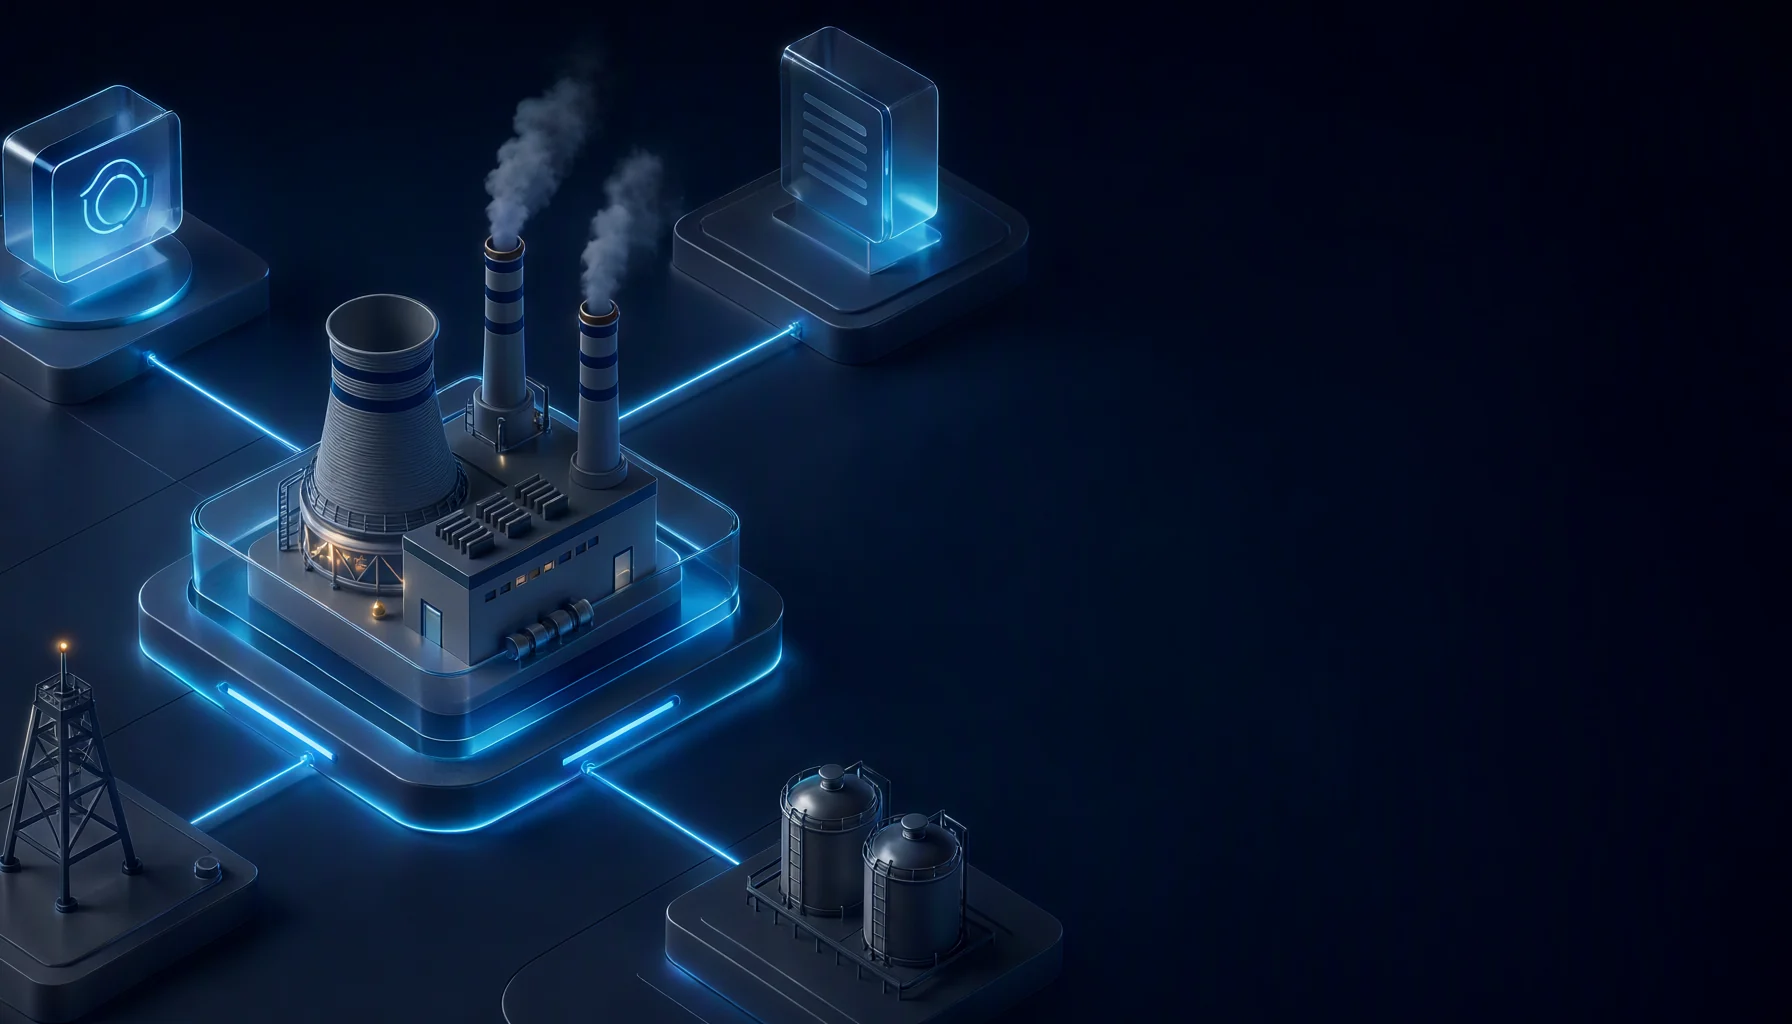
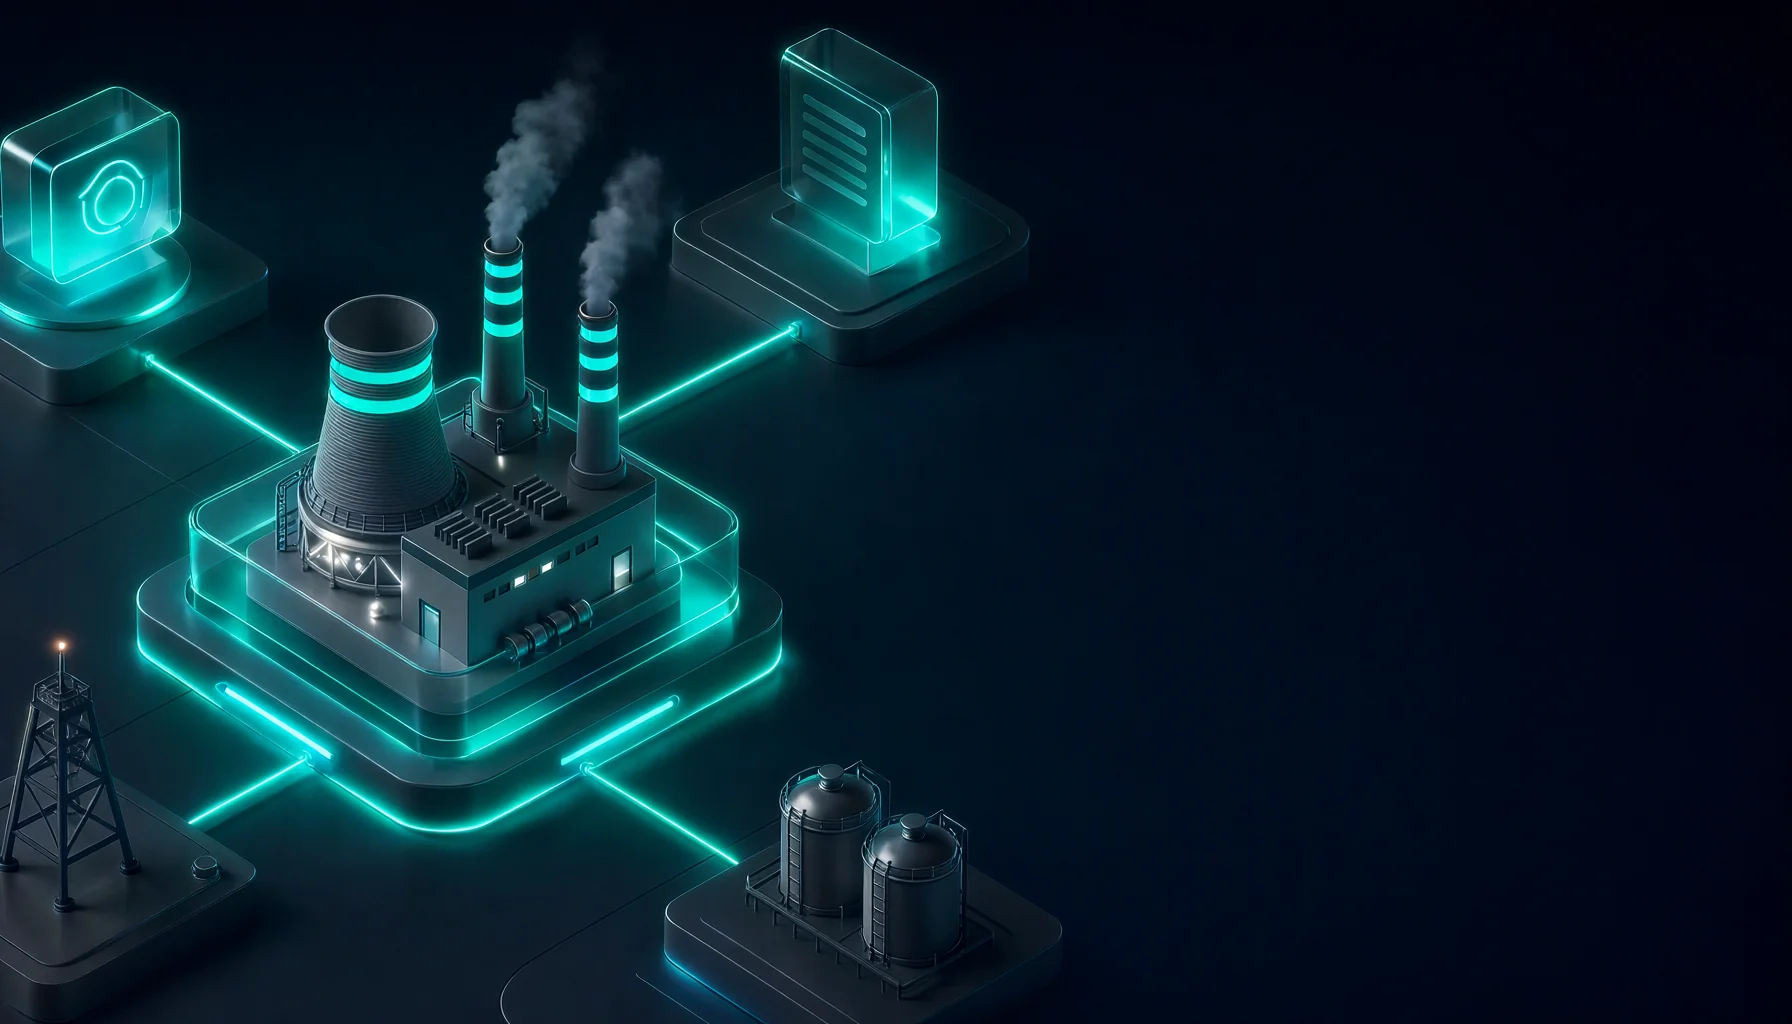
优化: 登录页插画转青蓝并恢复鼠标光斑
登录页两张背景插画从钴蓝（210~225°）重绘为青蓝（190~200°），与品牌青绿和功能蓝同族，暖橙点缀一并去掉；构图、尺寸、文件名不变，页面代码只跟随色相。

鼠标跟随光斑此前随旧背景层一起删除，此次恢复为插画之上、登录卡之下的一层。暗色沿用纯青色；亮色插画接近白色，纯青叠上去只是一层绿雾，故改为白芯提亮 + 外圈青色，A/B 截图对比确认可读作一束光。

实测：pnpm build、check-long-files、vitest run --changed（10/10）通过，eslint 0 error。

Changed region(s): [[0.0, 0.0312, 0.5312, 0.9375], [0.375, 0.9375, 0.4062, 0.9688], [0.375, 0.2188, 0.4062, 0.25]]

diff --git a/src/views/login/index.vue b/src/views/login/index.vue
@@ -1,8 +1,10 @@
 <template>
-  <div class="login-page">
+  <div class="login-page" @pointermove="onPointerMove">
     <!-- 背景：等轴测工厂插画（左侧场景）+ 主题蒙版，替代原网格/光晕/扫描线 -->
     <div class="bg-art" />
     <div class="bg-veil" />
+    <!-- 鼠标跟随光斑：换背景时保留，压在插画之上、登录卡之下 -->
+    <div class="cursor-glow" :style="glowStyle" />
 
     <!-- 主题切换：登录页是进入系统的第一屏，未登录也要能改外观 -->
     <ThemeToggle v-slot="{ tip, icon, toggle }">
@@ -107,7 +109,7 @@
 </template>
 
 <script setup lang="ts">
-import { ref } from 'vue'
+import { ref, computed } from 'vue'
 import { useRouter, useRoute } from 'vue-router'
 import { useAuthStore } from '@/stores/authStore'
 import { useBrandingStore } from '@/stores/brandingStore'
@@ -124,6 +126,20 @@ const branding = useBrandingStore()
 const username = ref('admin')
 const password = ref('')
 const showPwd = ref(false)
+// 初始放在视口外，首次移动前不显示光斑
+const glowX = ref(-999)
+const glowY = ref(-999)
+
+const glowStyle = computed(() => ({
+  transform: `translate3d(${glowX.value - 180}px, ${glowY.value - 180}px, 0)`,
+}))
+
+function onPointerMove(e: PointerEvent) {
+  const el = e.currentTarget as HTMLElement
+  const rect = el.getBoundingClientRect()
+  glowX.value = e.clientX - rect.left
+  glowY.value = e.clientY - rect.top
+}
 
 const seeds = SEED_USERS
 

diff --git a/src/styles/variables.scss b/src/styles/variables.scss
@@ -93,6 +93,12 @@
     rgba(6, 10, 20, 0.26) 46%,
     rgba(6, 10, 20, 0.6) 100%
   );
+  // 鼠标光斑：暗底上纯青色就够亮
+  --login-cursor-glow: radial-gradient(
+    circle,
+    rgba(0, 212, 170, 0.26) 0%,
+    transparent 70%
+  );
   --login-glow-color: rgba(0, 212, 170, 0.22);
 }
 
@@ -207,6 +213,13 @@ html[data-theme='light'] {
     rgba(248, 251, 255, 0.04) 0%,
     rgba(248, 251, 255, 0.45) 46%,
     rgba(255, 255, 255, 0.92) 100%
+  );
+  // 白天插画本身接近白色，纯青色叠上去只是一层绿雾；改成白芯提亮、外圈带青，才像一束光
+  --login-cursor-glow: radial-gradient(
+    circle,
+    rgba(255, 255, 255, 0.85) 0%,
+    rgba(0, 205, 180, 0.3) 42%,
+    transparent 70%
   );
   --login-glow-color: rgba(0, 180, 140, 0.12);
 }

diff --git a/src/views/login/login.scss b/src/views/login/login.scss
@@ -34,6 +34,21 @@ html[data-theme='dark'] .bg-art {
   pointer-events: none;
 }
 
+/* 鼠标跟随光斑：插画之上、登录卡之下；浓度随主题走变量 */
+.cursor-glow {
+  position: absolute;
+  top: 0;
+  left: 0;
+  width: 360px;
+  height: 360px;
+  border-radius: 50%;
+  background: var(--login-cursor-glow);
+  filter: blur(8px);
+  pointer-events: none;
+  will-change: transform;
+  z-index: 0;
+}
+
 /* 宽屏把登录卡让到右侧留白区：插画构图偏左，卡片居中会压住工厂主体 */
 @media (min-width: 1200px) {
   .login-page {

diff --git a/CHANGELOG.md b/CHANGELOG.md
@@ -75,7 +75,7 @@
 ### 优化
 
 - 登录页背景改为等轴测工厂插画（亮/暗各一张），宽屏登录卡让到右侧留白区
-  - 首屏从「纯色渐变 + 网格扫描线」换成插画：亮色是白天版、暗色是同构图的夜景版；表单、演示账号与登录流程不变
+  - 首屏从「纯色渐变 + 网格扫描线」换成插画：亮色是白天版、暗色是同构图的夜景版，色相收到青蓝系与品牌色一致；鼠标跟随光斑保留并按主题调档；表单、演示账号与登录流程不变
 - 首页新建项目入口前移到项目列表第一格
   - 项目较多时不必再滑到列表底部；「导入示例 Demo」仍随这张卡保留
 - echarts 独立分包：画布共享块从 591 kB 降到 52 kB，echarts 可独立缓存
